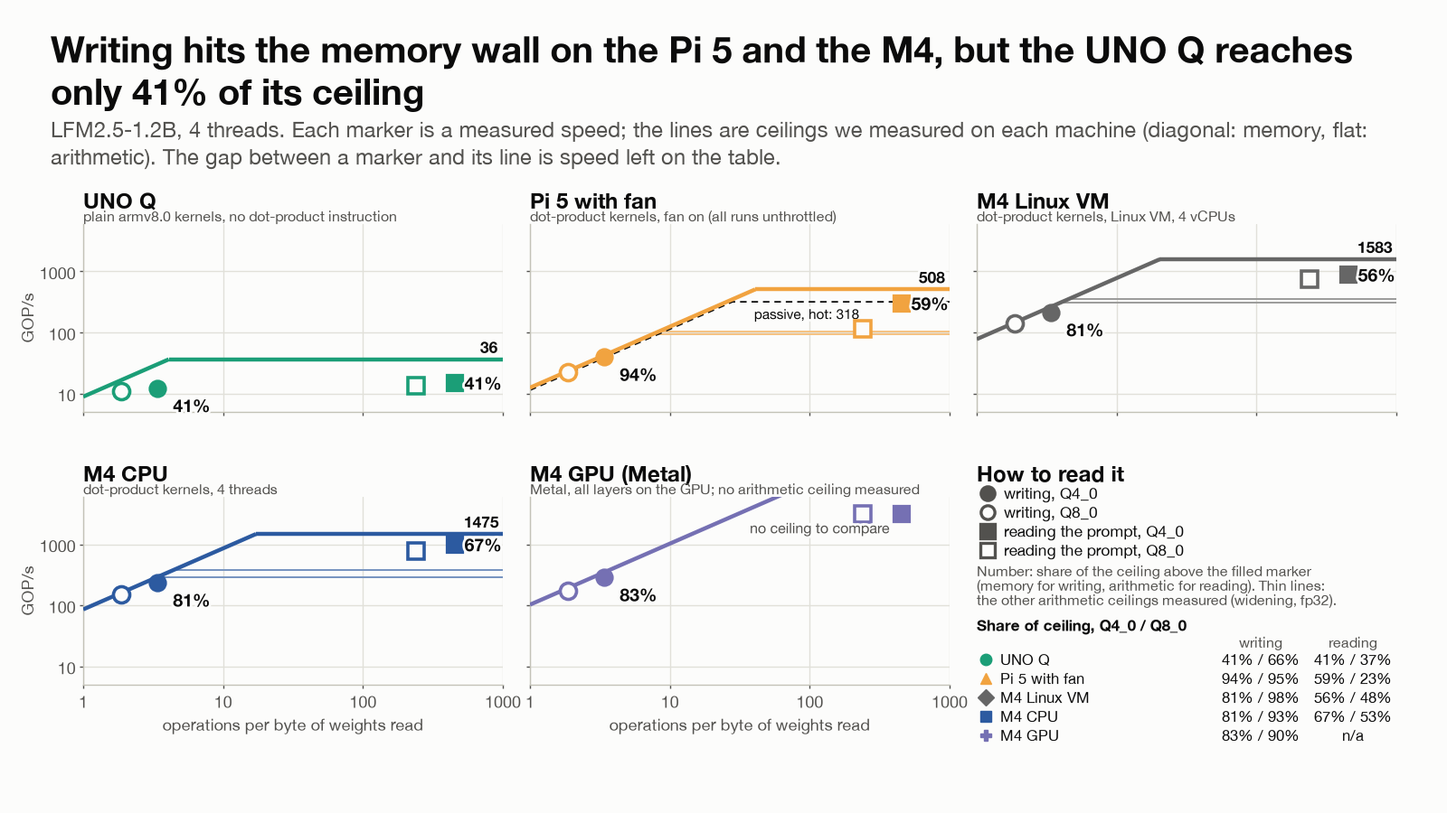
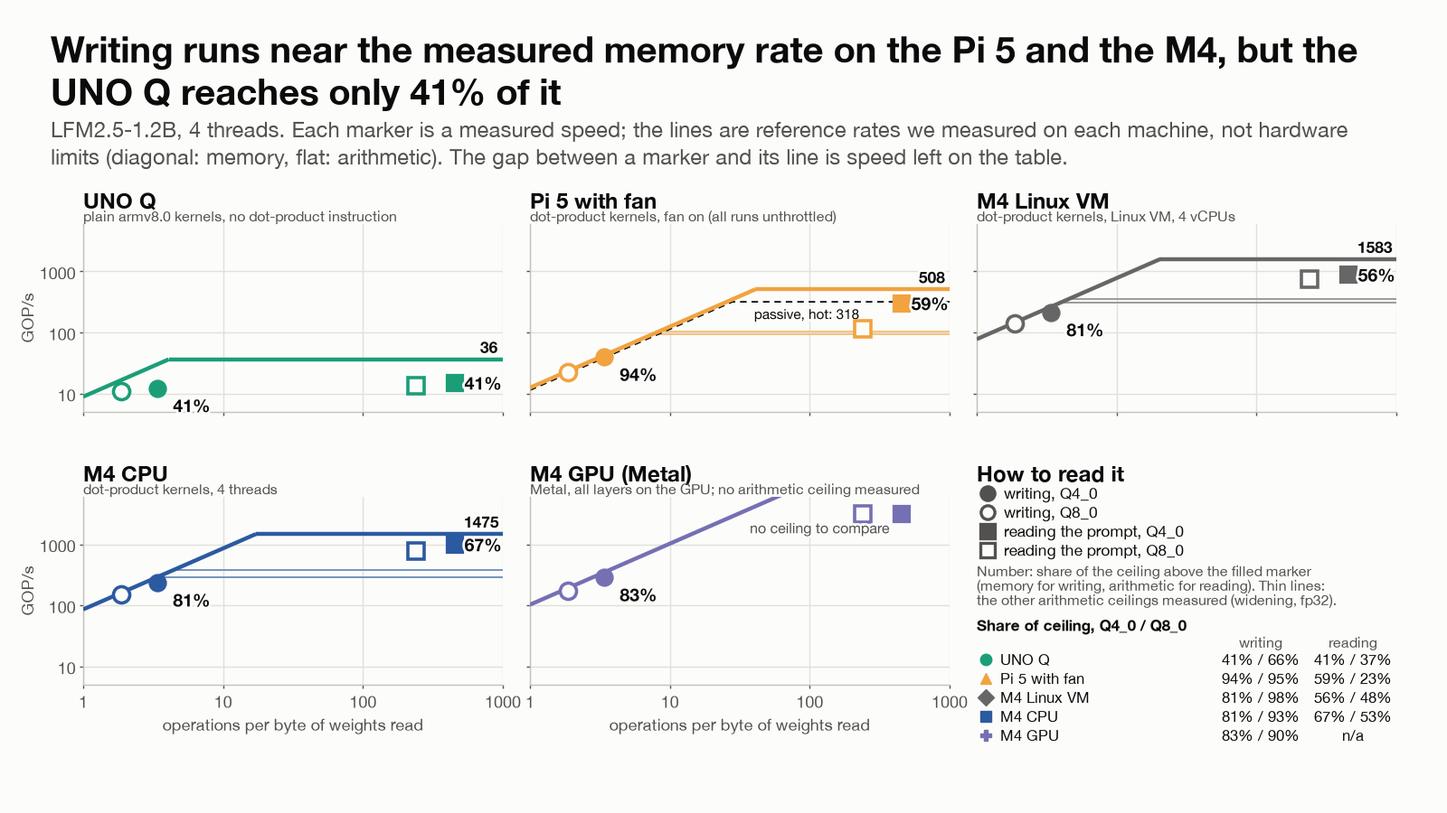
what-limits-local-ai-speed: narrower causal wording, evidence table, summary up front, replication steps
After a Codex review of the published post: the UNO Q explanation is an inference (performance counters named as the test), the
projected kernel speedup is gone, the speed rule has its formula, the Pi clock step is split into observed, supported and not
shown, quantization numbers are called fidelity not quality, the energy figure says what it includes, the audits are called AI
audits, and a dated update note says what changed. New: a three-finding summary, an evidence table, a short conclusion with next
steps, and the commands to check the 2000 MHz step on a Pi 5. Roofline figure retitled (no 'memory wall').

Changed region(s): [[0.0312, 0.0311, 0.9375, 0.1556], [0.0312, 0.1556, 0.9375, 0.2178]]

diff --git a/content/posts/what-limits-local-ai-speed/index.md b/content/posts/what-limits-local-ai-speed/index.md
@@ -6,9 +6,17 @@ tags: ["llm", "benchmarking", "raspberry-pi", "arduino", "claude-code", "hardwar
 description: "Two weeks of measurements on an Arduino UNO Q, a Raspberry Pi 5 and a Mac mini M4, with every number tied to a raw file. Memory bandwidth sets the writing speed on two of them, not the third, a faster Pi clock can write slower, and the Arduino spends about half a joule per token."
 ---
 
-I wanted to know what actually limits how fast a small language model runs, and I wanted numbers I could trust. The usual answer is two rules: memory capacity decides which model fits, and memory bandwidth decides how fast it writes. I spent two weeks testing how far that goes on the three devices I had: an Arduino UNO Q, a Raspberry Pi 5 and a Mac mini with an M4. Claude Code wrote the harness and ran most of the measurements. I'm a systems electrical engineer, not an ML person, so I wanted a method that ties every number to a raw file.
+I raised a Raspberry Pi 5's CPU clock from 1900 to 2000 MHz and its language model got 6% slower. On an Arduino UNO Q, switching from 4-bit to 8-bit weights, which nearly doubles the bytes read for every word, cost 7% of the writing speed; on the Pi it cost 44%. Both cut against the usual explanation of local AI speed, which comes down to two rules: memory capacity decides which model fits, and memory bandwidth decides how fast it writes.
 
-The short answer: the rules hold for two of the three and fail for the third, and two cheap tests tell you which case you are in. On the Pi and the M4, writing a token is limited by memory bandwidth. On the UNO Q it is limited by how fast its small cores execute the kernel's instructions, and a written token costs it about half a joule. The devices are the demonstration, not the subject.
+I spent two weeks testing how far those rules go on the three devices I had: an Arduino UNO Q, a Raspberry Pi 5 and a Mac mini with an M4, each writing one answer at a time (single-stream decoding; batching has its own section). Claude Code wrote the harness and ran most of the measurements. I'm a systems electrical engineer, not an ML person, so I wanted a method that ties every number to a raw file.
+
+What I found, in three parts:
+
+1. The bandwidth rule holds on the Pi and the M4 and fails on the UNO Q. There the evidence points to instruction overhead in its small cores' 4-bit kernel, not to memory or multipliers. That is an inference from instruction counts and scaling tests, not a look at what the cores are doing. A written token costs the UNO Q about half a joule.
+2. Operating points can behave in surprising ways. The Pi's 2000 MHz step is in its path to memory, not its cores, and a hot Pi is slow because its firmware lowers the clock; I found no direct effect of temperature at a fixed clock.
+3. Software settings can matter more than hardware. Constraining a small model's reply to a JSON schema took a smart-home test from 5 of 30 right actions to 28 of 30, and one server setting cut the wait for the first word from about 16 seconds to under 2.
+
+The devices are the demonstration, not the subject. A table near the end says how much evidence stands behind each finding.
 
 ## The method, in five habits
 
@@ -22,9 +30,9 @@ The short answer: the rules hold for two of the three and fail for the third, an
 5. Measure the roofline reference rates (read bandwidth, int8 multiply rate) on the device itself and place every
    workload against them. That turns "it is slow" into "here is what it is short of".
 
-Who did what: I defined the method and decided each step of the evaluation (what to measure next, how each run could fail, which hardware, every review). Claude Code wrote the harness, the scripts and the first drafts of the notes, and started sub-agents for some runs and for the independent audits. I cannot review its code line by line, which is why every number cites a raw file, and why the audits re-read the raw files against the register (they found no register number wrong, and their wording fixes are in). Scope: three ARM devices (four Mac configurations), the CPU path through llama.cpp release b11181 (the Apple anchor uses the build its table used) plus the M4's Metal GPU. Energy is measured on the UNO Q (at its 5 V input) and on the Pi (board rails only), not yet on the same meter; accelerators and the Pi on that meter are the next posts.
+Who did what: I defined the method and decided each step of the evaluation (what to measure next, how each run could fail, which hardware, every review). Claude Code wrote the harness, the scripts and the first drafts of the notes, and started sub-agents for some runs and for audits. I cannot review its code line by line, which is why every number cites a raw file, and why other Claude sessions re-read the raw files against the register (they found no register number wrong, and their wording fixes are in). Those are AI audits by the same kind of tool that wrote the code, not human or outside review. Scope: three ARM devices (four Mac configurations), the CPU path through llama.cpp release b11181 (the Apple anchor uses the build its table used) plus the M4's Metal GPU. Energy is measured on the UNO Q (at its 5 V input) and on the Pi (board rails only), not yet on the same meter; accelerators and the Pi on that meter are the next posts.
 
-Every number in this post has a row in that register, with its raw result file, its status and its caveats. The register and the raw result files are not published yet.
+Every number in this post has a row in that register, with its raw result file, its status and its caveats. The register and the raw result files are not published yet, so for now you cannot follow that trace yourself. That is the biggest gap in this post.
 
 ## The devices
 
@@ -47,13 +55,15 @@ Facts from the vendor pages and the machines themselves, one named source per fi
 ![A log-log chart of memory capacity against memory bandwidth for the UNO Q (4 GB, 8.9 GB/s), the Pi 5 (8 GB, 12.5 GB/s), the Mac mini M4 (16 GB, 102 GB/s) and five larger devices taken from vendor specs, with horizontal lines for the writing speed the speed rule predicts for a 7B and a 1.2B model. The Pi writes at 92% of its bandwidth and the M4 at 83%; the UNO Q reaches only 41%.](figs/landscape.png)
 
 Capacity. Resident size is about parameters times bytes per parameter (0.5625 for Q4_0, about 0.6 for Q4_K_M, about 1.06
-for Q8_0) plus the context cache and the runtime's copies. One rule of thumb says 75% of RAM is usable and the largest model, in billions of parameters, is the usable GB divided by 0.6. That is the Q4_K_M line of the arithmetic. It hides two things: small models' "Q4_0" files
+for Q8_0) plus the context cache and the runtime's copies. One rule of thumb, a heuristic and not an allocation limit, says 75% of RAM is usable and the largest model, in billions of parameters, is the usable GB divided by 0.6. That is the Q4_K_M line of the arithmetic. It hides two things: small models' "Q4_0" files
 keep the vocabulary table at 6 or 8 bits, 16 to 45% of the bytes a token reads, and repacking for dot-product
 kernels nearly doubles resident memory, 1366 MB on the Pi against 717 MB on the UNO Q for the same 4-bit 1.2B file.
 
-Speed. Tokens per second while writing is at most measured read bandwidth times an efficiency (about 0.9 at the memory
-wall) divided by bytes per token. With the throttled chip's own measured bandwidth, the rule predicted the Pi's 7B model within 5%. It fails on the UNO Q, which
-writes at 41% of its measured bandwidth and 34% of its measured multiply rate at the same time: neither memory bandwidth nor arithmetic is the limit, the kernel's instruction count is, and the rule, at the efficiency the Pi and the M4 reach, overstates its speed about 2x.
+Speed. Writing a token reads the weights that token uses once, so the rule is:
+
+> tokens per second ≈ measured read bandwidth × efficiency ÷ bytes read per token
+
+The efficiency is about 0.9 for a chip running close to its measured read rate, which I call the memory wall. The bytes are the bytes actually read per token, not the file size or the resident memory: for a mixture-of-experts model they are far fewer than the file holds. Arithmetic is a second reference rate, and a run can sit below both. With the throttled chip's own measured bandwidth, the rule predicted the Pi's 7B model within 5%. It fails on the UNO Q, which writes at 41% of its measured bandwidth and 34% of its measured multiply rate at the same time: neither is the limit, and the sections below point to the instruction overhead of its kernel. At the efficiency the Pi and the M4 reach, the rule would overstate its speed about 2x.
 
 The gray squares in the chart are bigger devices from their vendors' spec pages, not measured by us. They show that capacity and bandwidth are bought separately: some have a lot of memory and moderate bandwidth, some the reverse.
 
@@ -74,8 +84,7 @@ within 5%. Writing the prediction down is what made the miss visible.
 
 ![Five log-log roofline panels (UNO Q, Pi 5 with fan, M4 Linux VM, M4 CPU, M4 GPU) with each machine's measured memory and arithmetic ceilings and the 1.2B model's measured speeds placed on them. Writing reaches 94% of the memory ceiling on the Pi, 81 to 83% on the M4 and only 41% on the UNO Q.](figs/roofline.png)
 
-One small program, the same binary on every device, measured each one's read bandwidth and int8 multiply rate. They are reference rates, not hardware limits; a share carries about 10% uncertainty. Against them, same 1.2B
-model, 4 bits, four threads: the Pi's writing streams weights at 92% of its read rate (the chart plots the fan-cooled run, 94%) and the M4 CPU's at 81 to 86% (90 to 93% at 8 bits), the memory wall; the UNO Q reaches 41% of its read rate and 34% of its multiply rate, neither.
+One small program, the same binary on every device, measured each one's read bandwidth and int8 multiply rate. They are reference rates, not hardware limits: a streaming test is not llama.cpp's access pattern (tensor boundaries, thread synchronization), so a share carries about 10% uncertainty. Against them, same 1.2B model, 4 bits, four threads: the Pi's writing streams weights at 92% of its read rate (the chart plots the fan-cooled run, 94%) and the M4 CPU's at 81 to 86% (90 to 93% at 8 bits), close to the read rate, the memory wall; the UNO Q reaches 41% of its read rate and 34% of its multiply rate, close to neither.
 
 A GPU adds arithmetic more than bandwidth. On the M4, the Metal GPU reads a prompt at 1544 tokens per second against the CPU's 523, 3.0 times faster, but writes at 130 against 98, only 1.3 times faster (1.2 times in the first run), about the ratio of their read rates, 102 against 86 GB/s; in the first run its writing sat at 83% of its own read rate, the same wall. The UNO Q's GPU (Adreno 702, Vulkan 1.0) was 7.3 times slower than its CPU on a small vision model, and llama.cpp's Vulkan backend needs a newer Vulkan, so no language model ran on it.
 
@@ -92,10 +101,9 @@ the 4-bit file per token, so a bandwidth-bound machine must slow to about 56%: t
 
 ![Stacked bars of the instructions in one pass of the Cortex-A53's inner loop per 64 multiply-accumulates: the 4-bit loop has 54 instructions of which 16 multiply, the 8-bit loop has 48, and the microbenchmark's test kernel has 16, all multiplies. The rest unpack, rescale, load and loop.](figs/kernel_mix.png)
 
-We disassembled the exact kernel library the board runs. The 4-bit inner loop spends 54 instructions per 64
-multiply-accumulates and only 16 of them multiply; the rest load, unpack and rescale. The 8-bit loop needs 48, since
-nothing is unpacked. No runtime option changes it (all within 2%). A better kernel has at least about 2.5x of
-room.
+We disassembled the exact kernel library the board runs. The 4-bit inner loop spends 54 instructions per 64 multiply-accumulates and only 16 of them multiply; the rest load, unpack and rescale. The 8-bit loop needs 48, since nothing is unpacked. If every instruction took the same time, that predicts 30% (4-bit) and 33% (8-bit) of the multiply rate; I measured 33 to 41% and 31 to 37%. No runtime option changes it (all within 2%).
+
+That points to instruction overhead without proving it. An instruction count says how much work there is, not how long it takes: dependencies between instructions, load latency and the in-order core's issue rate could matter as much. The board exposes its Cortex-A53 performance counters, and reading them (instructions per cycle, cache misses, stalls) is the test that could contradict this; I have not done it. The memory reference rate sits well above the measured speed, so a faster kernel has headroom on paper, but how much a real kernel could realize is unmeasured.
 
 The same missing instruction decides how a prompt is read: reusing a weight across a block of tokens needs a blocked
 kernel, which on ARM needs the dot-product instruction. A 128-token prompt therefore raises the UNO Q's arithmetic
@@ -104,12 +112,7 @@ request with about 120 tokens of instructions takes 20.2 seconds on the UNO Q, 1
 
 ![Horizontal stacked bars of waiting time for a 72-token email (panel A) and a 150-token answer (panel B) on seven setups, split into the wait for the first word and the time to write the rest: the UNO Q takes 19 s and 34 s, the Pi 5 about 4.5 s and 9 s, the M4 variants 0.6 to 1.8 s and 1.3 to 3.1 s.](figs/latency.png)
 
-How much is the instruction and how much the core? We forced the Pi onto the UNO Q's kernels. At clocks matched within 4% the A76
-runs the same plain code 3.5x faster on prompts and 2.8x on writing than the A53 (core and memory system); its
-dot-product kernels then add 5.8x on prompts but only 1.1x on writing, because the plain loop already writes at 81% of
-the Pi's bandwidth. An instruction helps only where it removes the bottleneck. That number is itself a correction:
-the first split (7.0x and 1.4x) compared a hard-throttled plain-kernel run with dot-product runs that were only soft-limited; the state
-logs showed the mismatch, the claim was superseded within minutes and cool reruns gave the figures above: the method caught its own error.
+How much is the instruction and how much the core? We forced the Pi onto the UNO Q's kernels. At clocks matched within 4% the A76 runs the same plain code 3.5x faster on prompts and 2.8x on writing than the A53 (core and memory system); its dot-product kernels then add 5.8x on prompts but only 1.1x on writing, because the plain loop already writes at 81% of the Pi's bandwidth. An instruction helps only where it removes the bottleneck. (The first version of this split, 7.0x and 1.4x, compared a throttled run with unthrottled ones; the state logs showed it and cool reruns gave the figures above.)
 
 ![Two log-scale bar panels, prompt reading and writing, showing how many times faster than the UNO Q each machine is. The Pi 5 is 3.46 times (prompts) and 2.82 times (writing) faster running the UNO Q's own plain instructions, then 5.82 times and only 1.12 times faster again with the dot-product instruction. The M4 Linux VM is split the same way.](figs/isa_split.png)
 
@@ -118,27 +121,31 @@ logs showed the mismatch, the claim was superseded within minutes and cool rerun
 In a passive case the Pi 5 trips its 80 C limit within a minute of continuous writing. With the real clock recorded, the
 clock falls from 2383 to 1514 MHz (-36%) over ten minutes while writing falls from 16.6 to 13.2 tokens per second
 (-21%); speed went as the clock to the power 0.49, about half, as a memory-bound workload should. A desk fan delays
-the limit from 51 to 162 seconds and holds the loss to 6%. Measured on the throttled chip, the multiply rate fell 37% and the four-thread read rate 9%; the pinned-clock tests below show that is the clock, not the heat. The trap: the standard Linux clock reading said
+the limit from 51 to 162 seconds and holds the loss to 6%. Measured on the throttled chip, the multiply rate fell 37% and the four-thread read rate 9%; the pinned-clock tests below point to the clock, not the heat. The trap: the standard Linux clock reading said
 2.4 GHz through all of it, because it reports the clock requested, not delivered; every Pi clock column recorded before
-we noticed is marked wrong. The UNO Q never slowed through a 20-minute run at up to 74 C; its cores do too little per second to get hot.
+we noticed is marked wrong. The UNO Q never slowed through a 20-minute run at up to 74 C.
 
 ![Speed and temperature over ten minutes of continuous writing. The passive Pi 5 hits its 80 C limit at 51 seconds and loses 21% of its speed (16.6 to 13.2 tokens per second); with a desk fan it hits the limit at 162 seconds and loses 6%; the UNO Q stays flat at 5.1 tokens per second and never reaches 80 C. A small panel shows the fanned Pi cooling to 35 C.](figs/thermals.png)
 
 ![Two groups of bars for the Pi 5: dot-product arithmetic in GOP/s and read-only memory bandwidth in GB/s, measured cold, hot after the suite on the passive Pi, and with a fan after ten minutes of load. Hot, arithmetic is 37% lower (317.5 against 507.7) and bandwidth 9% lower (11.32 against 12.48); with the fan both are back within 0.2%.](figs/heat_ceilings.png)
 
-The direct test pins the clock at fixed steps from 1500 to 2400 MHz, twice in opposite orders, first in the passive case and then with a fan on the Pi. Two results. Temperature does nothing at a pinned clock: the chip at 51 to 63 C writes as fast as the same chip at 65 to 81 C, within about 1%, 0.4 to 0.5% slower if anything. A hot Pi is slow only because the firmware lowers its clock; the fan's value is the delay before it does and the higher clock it settles at afterwards. And over the 60% of extra clock between 1500 and 2400 MHz, prompt reading gained 51% (speed went as the clock to the power 0.9) while writing gained only 23%: reading is arithmetic and follows the clock, writing waits on memory.
+The direct test pins the clock at fixed steps from 1500 to 2400 MHz, twice in opposite orders, first in the passive case and then with a fan on the Pi. Two results. Within the temperatures I tested, I found no direct effect of heat at a pinned clock: the chip at 51 to 63 C writes as fast as the same chip at 65 to 81 C, within about 1%, 0.4 to 0.5% slower if anything. Each pinned step lasted under a minute, so a long soak at 80 C was not tested. So a hot Pi is slow because the firmware lowers its clock; the fan's value is the delay before it does and the higher clock it settles at afterwards. And over the 60% of extra clock between 1500 and 2400 MHz, prompt reading gained 51% (speed went as the clock to the power 0.9) while writing gained only 23%: reading is arithmetic and follows the clock, writing waits on memory.
 
 ## A faster clock that writes slower
 
 ![Left: writing speed rises from 13.4 to 15.8 tokens per second between 1500 and 1900 MHz, drops 6.4% to 14.8 at 2000 and rises to 16.6 at 2400. Right: arithmetic, L1 and L2 throughput per cycle stay at 100%; L3 speed drops to about 91% and the DRAM stream to about 83% at 2000 MHz.](figs/clock_step.png)
 
 Mapped at every 100 MHz, the writing curve is not smooth. It rises from 13.4 tokens per second at 1500 MHz to 15.8 at 1900, falls 6.4% to 14.8 at 2000, and climbs
-again to 16.6 at 2400; 2000, 2100 and 2200 MHz are all slower than 1900, in both passes. (The first, coarser sweep showed this as a dip at 2100 MHz, which we put down to chance and then to heat. The fan-cooled repeat and the finer grid showed it is a step.)
+again to 16.6 at 2400; 2000, 2100 and 2200 MHz are all slower than 1900, in both passes. The step is not noise: ten repetitions at each clock scatter by about 0.09 tokens per second, the slowest of the ten at 1900 MHz (15.7) is faster than the fastest of the ten at 2000 (14.9), and the 1.02 tokens-per-second gap is about twelve standard deviations. (The first, coarser sweep showed a dip at 2100 MHz, which we put down to chance and then to heat; the fan-cooled repeat and the finer grid showed a step.)
 
 Where is it? Not in the arithmetic: the int8 rate per MHz is the same at every clock, and the core voltage rises smoothly, 15 mV per 100 MHz, with no jump.
 A latency ladder points at the memory side. L1 and L2 behave identically at every clock, but from 2000 MHz up the shared L3 answers in 10% more CPU cycles and one thread
 streams 17% fewer bytes per cycle from DRAM, a ratio of 0.83, consistent with 5 to 6, per MHz. A read-only imitation of the model's memory pattern (four threads reading 0.69 GB in 200
-tensors with a barrier after each, no arithmetic) steps more (9.5% against the model's 6.4%) and keeps a nearly constant ratio to the real writing speed across all ten clocks (within about 2%). A prediction written down beforehand also held: the 8-bit file, which reads 1.79 times the bytes per token, steps by 7.1% at the same clock, more than the 4-bit file's 6.4%. So the cause sits in how the path to memory scales with the CPU clock at that operating point, which looks like a clock-ratio change; whether the firmware sets it, and which divider, I cannot see from Linux.
+tensors with a barrier after each, no arithmetic) steps more (9.5% against the model's 6.4%) and keeps a nearly constant ratio to the real writing speed across all ten clocks (within about 2%). A prediction written down beforehand also held: the 8-bit file, which reads 1.79 times the bytes per token, steps by 7.1% at the same clock, more than the 4-bit file's 6.4%. So the step is in the path to memory. How far that goes:
+
+- **Observed:** writing steps down 6.4% between 1900 and 2000 MHz in both passes; at that clock the shared L3's latency in CPU cycles and the DRAM stream per cycle step too, while arithmetic, L1 and L2 do not.
+- **Supported:** the step is in the memory path beyond the second-level cache, not in the cores.
+- **Not shown:** why. A clock-domain ratio, a memory-controller or interconnect operating point, or something else could do it, and I tested one board on one firmware.
 
 The practical reading: capped at 1900 MHz this Pi writes at 95 to 96% of its full-clock speed on 26% less power, and 2000 to 2200 MHz are slower than 1900 while drawing the same or more power. "More clock" is more speed only if every stage between the core and the data scales with it.
 
@@ -146,35 +153,19 @@ The practical reading: capped at 1900 MHz this Pi writes at 95 to 96% of its ful
 
 ![Three panels against bits per weight for the 1.2B model quantized from 8.5 down to 4.8 bits, plus 4-bit files made with more care (quantization-aware, or with an importance matrix). KL divergence from the full-precision file rises at every step; the share of positions with the same top word falls from 98.5% to 79.4%; perplexity stays within 0.5% of full precision until the 4-bit files, where plain Q4_K_M and Q4_0 rise 12.6% and 17.3%.](figs/quant_ladder.png)
 
-Speed is the bandwidth story again: 8-bit costs 7 to 10% on the UNO Q and 36 to 44% on the Pi and the Mac, and
-needs 1.7x the resident memory. On quality, what I could see was smaller than what is there.
-In blind votes between the 8-bit and 4-bit versions of one model I called 4 of 7 pairs equal, and our automatic
-checks scored them 13 and 12 of 24: noise. Measured as llama.cpp does (perplexity and KL divergence against the
-full-precision file over a 300,000-token text), the ladder is clear: 8-bit keeps the full-precision next word 98.5% of
-the time, Q6_K 95.2%, Q5_K_M 92.0%, a quantization-aware 4-bit file 84.9%, Q4_K_M 83.3%, plain Q4_0 79.4%. Perplexity
-stays within 0.5% of full precision down to Q5_K_M, then rises to +1.9% for the quantization-aware file and jumps to +12.6% and +17.3% for Q4_K_M and Q4_0. Plain 4-bit ranks a different word first at about one position in five of the test text: invisible in a handful of answers, but there. How the file is made matters
-as much as the bit count: the same 1B weights quantized with an importance matrix keep the next word 86.2% of the time,
-without one 81.0%. One model family each, on encyclopedia text.
+Speed is the bandwidth story again: 8-bit costs 7 to 10% on the UNO Q and 36 to 44% on the Pi and the Mac, and needs 1.7x the resident memory. Quality is harder to see, because three different things get called quality: numerical fidelity (does the smaller file agree with the full-precision one: top-word agreement, KL divergence), fit to text (perplexity) and task success (does it answer correctly). My task tests could not tell the 8-bit and 4-bit files apart: in blind votes I called 4 of 7 pairs equal, and our automatic checks scored them 13 and 12 of 24. The fidelity numbers are clear, against the full-precision file over a 300,000-token text: 8-bit keeps its top word 98.5% of the time, Q6_K 95.2%, Q5_K_M 92.0%, a quantization-aware 4-bit file 84.9%, Q4_K_M 83.3%, plain Q4_0 79.4%; perplexity stays within 0.5% of full precision down to Q5_K_M, then rises to +1.9% for the quantization-aware file and +12.6% and +17.3% for Q4_K_M and Q4_0. The full-precision file is a reference, not ground truth, and two near-tied words can flip a greedy answer without making it worse, so plain 4-bit ranking a different word first about one time in five measures how far the numbers moved, not how much worse the answers got. How the file is made matters as much as the bit count: an importance matrix lifts a 1B model's 4-bit top-word agreement from 81.0% to 86.2%. One model family, on encyclopedia text.
 
 ## Same weights, different words
 
 ![A matrix of the number of identical answers, out of 36 prompts, between each pair of the M4 GPU, M4 CPU, Pi 5 and UNO Q (18 to 23 for different chips; all four agree on 14), and a strip chart of how many characters pairs of answers share before they first differ (medians 50 to 99).](figs/chips.png)
 
-Same model file, greedy decoding, 36 prompts: any two chips write word for word the same answer on half to two thirds of
-them; on one machine the text repeats exactly, 52 of 52. What sets
-the words is the kernel path, not the chip: the Pi writes the same 28 of 28 answers as the M4's Linux VM, which runs the
-same kernel library on different silicon, and 24 to 25 of 28 as the Mac GPU and CPU, whose kernels differ. Where
-the addition order differs, texts split at a close call between two words. The verdicts do not: all three chip families
-give the same pass/fail result on at least 23 of 24 checks.
+Same model file, greedy decoding, 36 prompts: any two chips write word for word the same answer on half to two thirds of them; on one machine the text repeats exactly, 52 of 52. In these tests the kernel path explains the differences better than the chip does: the Pi writes the same 28 of 28 answers as the M4's Linux VM, which runs the same kernel library on different silicon, and 24 to 25 of 28 as the Mac GPU and CPU, whose kernels differ. That does not show hardware never matters (one model, a small prompt set). Where the addition order differs, the texts probably split at a close call between two words; I have not measured that. The verdicts do not split: all three chip families give the same pass/fail result on at least 23 of 24 checks.
 
 ## Batching: predict, then measure
 
 ![Three panels of aggregate writing speed against the number of sequences decoded together. On the Pi 5, cool and hot, the measured speed (41 tokens per second at 8 sequences, 2.6 to 3.1 times one sequence) sits far under the textbook prediction (125 cool) and the kernel-aware prediction (90 cool), with a sawtooth at 5 to 7 sequences; the UNO Q gains only 1.09 times at 4.](figs/batching.png)
 
-Decoding several conversations at once lets a memory-bound chip read each weight once for all of them: a naive roofline promises up to 8x at 8 streams. Reading llama.cpp's repacked kernel before the run said otherwise: it handles streams in blocks
-of 4 and sends leftovers through single-row passes, so the gain should be a sawtooth. The Pi measured 15.8, 18.3, 38.8
-and 41.3 tokens per second in aggregate for 1, 2, 4 and 8 streams (2.6x at 8), and 5 to 7 streams were slower than 4. Every one of these runs was on the passive Pi and reached its 80 C limit, so all are flagged; the hot runs at 1500 MHz show the same shape (13.2, 15.6, 37.3 and 41.5). The sawtooth was on record before the data existed. The UNO Q, with no idle arithmetic to share, gains 1.09x at 4
-streams.
+Decoding several conversations at once lets a memory-bound chip read each weight once for all of them: a naive roofline promises up to 8x at 8 streams. Reading llama.cpp's repacked kernel before the run said otherwise: it handles streams in blocks of 4 and sends leftovers through single-row passes, so the gain should be a sawtooth. The Pi measured 15.8, 18.3, 38.8 and 41.3 tokens per second in aggregate for 1, 2, 4 and 8 streams (2.6x at 8), and 5 to 7 streams were slower than 4. Every run was on the passive Pi and reached its 80 C limit, so all are flagged: read them as the shape of the curve, not as steady-state speeds. The hot runs at 1500 MHz show the same shape. The UNO Q, with no idle arithmetic to share, gains 1.09x at 4 streams.
 
 ## The biggest models that fit
 
@@ -214,28 +205,60 @@ tokens (-ub 8) moves a checkpoint early enough: 109 of 121 tokens reused, the fi
 
 ![Left: board power over time at the UNO Q's 5 V input. Writing a 1,500-token answer holds about 2.3 W for 347 seconds (2.35 W in the first minute, 2.19 W in the last) and reading a prompt about 1.8 W for 287 seconds, against 0.455 W idle. Right: three bars of energy per token, each split into the board's idle draw and the extra draw for the work: reading a prompt 0.25 joules (3.9 tokens per joule), writing 128-token answers 0.47 (2.1) and writing 1,500-token answers 0.53 (1.9).](figs/uno_energy.png)
 
-The UNO Q has no power sensor, so I measured it from outside. I put an inline USB-C meter between the Mac's port and the board. The Mac cannot see the meter as a device, so I chose to read its display with a desk webcam, twice a second, and had Claude Code write the reader. A reading counts only if the meter's watts equal its volts times its amps within 3%, and a run's energy is the area under the power trace. I had the board's LED animation killed (Claude Code flashed an empty sketch to its microcontroller) because it would add to the number. The first run started with Wi-Fi and Bluetooth on; I asked why not switch them off for every run, so we stopped it, kept its files marked as aborted, and started over with them off. Wi-Fi and Bluetooth cost 0.047 W at idle, 9% of it; idle with them off is 0.455 W.
+The UNO Q has no power sensor, so I measured it from outside: an inline USB-C meter between the Mac's port and the board, its display read by a desk webcam twice a second (my choice; Claude Code wrote the reader). A reading counts only if the meter's watts equal its volts times its amps within 3%, and a run's energy is the area under the power trace. That shows the display is read consistently, not that the meter is accurate: all three numbers come from the same circuit. I had the LED animation killed (Claude Code flashed an empty sketch to the microcontroller). The first run started with Wi-Fi and Bluetooth on; I asked why not switch them off for every run, so we stopped it, kept its files marked as aborted, and restarted with them off. They cost 0.047 W at idle, 9% of it; idle with them off is 0.455 W.
 
-Writing a 1,500-token reply, the board draws 2.28 W at 4.33 tokens per second, so each token costs 0.53 J, or 1.9 tokens per joule; three runs agree within 0.7%. At the 128-token length the usual benchmark uses, it draws 2.43 W at 5.13 tokens per second: 0.47 J, 2.1 tokens per joule. Reading a prompt draws less, 1.82 W, but runs faster, 7.18 tokens per second, so a prompt token costs 0.25 J, 0.48 times a written one. Power also falls along a long answer, by 7 to 9% between the first minute and the last (2.35 W to 2.19 W in the first run), as the speed falls with the growing context.
+Writing a 1,500-token reply, the board draws 2.28 W at 4.33 tokens per second: 0.53 J per token of board-input energy, idle draw included (1.9 tokens per joule), or 0.42 J above idle (2.4 tokens per joule). The first answers "what does this device spend to write a token", the second "what does inference add to a device that is already on"; three runs agree within 0.7%. At the 128-token length the usual benchmark uses, it draws 2.43 W at 5.13 tokens per second: 0.47 J per token. Reading a prompt draws less, 1.82 W, but runs faster, 7.18 tokens per second, so a prompt token costs 0.25 J, 0.48 times a written one. Power falls 7 to 9% along a long answer (2.35 W to 2.19 W in the first run) as the speed falls with the growing context.
 
-This board is slow rather than frugal: it adds about 1.8 to 2.0 W on top of idle to write 4 to 5 tokens per second. That fits the earlier finding that its limit is the instructions its small cores execute, not memory. A better kernel has at least about 2.5 times of speed room; if it ran at about the same power, a joule would go that much further. That is a projection, not a measurement.
+This board is slow rather than frugal: it adds about 1.8 to 2.0 W on top of idle to write 4 to 5 tokens per second. Because the cause of the slowness is still an inference, I make no projection of what a faster kernel would cost in joules.
 
-I wrote the prediction first, and it missed: 1.3 to 1.8 W and 2.9 to 4.0 tokens per joule while writing, against 2.28 W and 1.90 measured. The article that gave the one published UNO Q speed I matched above also says about 1.4 W under load, for a different model, and I could not find how it measured; I did not reproduce that figure. And a caution about my own number: I have not checked the meter against a reference instrument. All I checked is that its readings agree with each other, watts against volts times amps, and my summed energy against the meter's own charge counter, within 0.8 to 2.3%.
+I wrote the prediction first, and it missed: 1.3 to 1.8 W and 2.9 to 4.0 tokens per joule while writing, against 2.28 W and 1.90 measured. The article that gave the one published UNO Q speed I matched above also says about 1.4 W under load, for a different model, and I could not find how it measured; I did not reproduce that. And I have not checked the meter against a reference instrument: its readings agree with each other, and my summed energy agrees with its own charge counter within 0.8 to 2.3%, but that would not catch a meter that is wrong in the same way everywhere.
 
 On the Pi's board rails a 1.2B model gives about 2.5 tokens per joule over a whole run, about 2.7 to 3.0 counting only the generation windows. The cheap lever is the clock: pinned at 1900 MHz the rails averaged 4.6 W against 6.2 W at 2400 for 4% less writing speed, which is 3.45 against 2.66 tokens per joule (whole-run power), the best of the six clocks tried. The Pi's figures are its board rails only, with no power supply or USB, and the UNO Q's are the whole board at its 5 V input, so the two cannot be compared yet. The Pi needs the same meter first.
 
+## How solid each finding is
+
+Three labels. Repeated: the same measurement agreed across two or more runs under the same conditions. Replicated: the result appeared again with a changed workload or method. Exploratory: one run, or too few to give a spread.
+
+| Finding | What backs it | Evidence |
+|---|---|---|
+| The Pi's writing speed steps down 6.4% from 1900 to 2000 MHz | Ten repetitions per clock in two passes; the 8-bit file steps 7.1%; a memory-only imitation steps | Repeated, replicated; one board |
+| The UNO Q is not limited by bandwidth or multipliers | 41% of the read rate, 34% of the multiply rate; the 8-bit file keeps 93%; threads scale 3.7 to 3.8x | Replicated by three tests, one run each |
+| Instruction overhead is why | Instruction counts; the Pi forced onto the same kernels; no counters | Exploratory |
+| The Pi and the M4 are limited by bandwidth | 81 to 94% of the read rate; the 8-bit file slows about as the bytes predict; threads flatten; the mixture-of-experts model follows bytes | Replicated, several runs |
+| No direct temperature effect at a pinned clock | Two passes, two coolings, 51 to 81 C, within about 1% | Repeated |
+| Throttling with and without a fan | One run per configuration | Exploratory |
+| UNO Q energy per token | Three 1,500-token runs within 0.7%; one 128-token run; one meter, unchecked | Repeated at 1,500 tokens, otherwise exploratory |
+| The quantization ladder, same answers across chips, the smart-home fixes | One model family or one greedy sample per prompt; 20 commands | Exploratory |
+
 ## Limitations
 
-One board of each kind, one run per thermal configuration, no temperature log during the hot ceiling measurement. The M4 numbers are good to about 5 to 10% run to run: a rerun at 8 to 9% background instead of 18 to 20% moved prompt reading by up to 10% and Metal writing by 6.5%, four repeats scattered 11% on prompt reading, and the Mac never reached a strictly quiet state; the M4 VM rows moved more, 7 to 33%. The Pi's clock step is one chip on one firmware, and its mechanism is inferred from latency and bandwidth, not observed. The UNO Q's energy comes from one meter read by webcam and not checked against a reference instrument, and its idle reading drifted from 0.471 to 0.450 W across the session for a reason I did not find; the Pi's energy is a different measuring point. The ceilings are reference rates, not
-hardware limits. The A53 explanation is inferred from instruction counts, not performance counters. Quantization: one
-model each, one text. Human quality: one rater, 24 votes. Apart from the M4's Metal GPU, no GPU or NPU has run a language model here. Not covered: image, video and speech generation, phones, a voice-assistant pipeline, and sending requests from a small board to a bigger machine; small vision and speech models did run on the boards earlier in the project, but they are not part of this post. The register, the raw files and the harness are not published yet.
+One board of each kind. The M4 numbers are good to about 5 to 10% run to run: a rerun at 8 to 9% background instead of 18 to 20% moved prompt reading by up to 10% and Metal writing by 6.5%, four repeats scattered 11% on prompt reading, and the Mac never reached a strictly quiet state; the M4 VM rows moved more, 7 to 33%. There was no temperature log during the hot ceiling measurement. The Pi's clock step is one chip on one firmware, and its mechanism is inferred from latency and bandwidth, not observed. The UNO Q's energy comes from one meter read by webcam and not checked against a reference instrument, and its idle reading drifted from 0.471 to 0.450 W across the session for a reason I did not find; the Pi's energy is a different measuring point. The ceilings are reference rates, not hardware limits. The A53 explanation is inferred from instruction counts, not performance counters. Quantization: one model each, one text. Human quality: one rater, 24 votes. Apart from the M4's Metal GPU, no GPU or NPU has run a language model here. Not covered: image, video and speech generation, phones, a voice-assistant pipeline, and sending requests from a small board to a bigger machine; small vision and speech models did run on the boards earlier in the project, but they are not part of this post. The register, the raw files and the harness are not published yet.
+
+## What I take from this, and what is next
+
+1. Find the limiting resource before you buy for it: the Pi and the M4 write about as fast as their memory reads, and the UNO Q does not.
+2. Log the clock the chip really delivers: more clock is more speed only if everything between the core and the data scales with it.
+3. Try the runtime settings before the hardware: on one chip, a constrained reply took a smart-home test from 5 of 30 right actions to 28, and a cached prompt cut the first word from 16 seconds to under 2.
+
+Next, in the order I would do them: read the UNO Q's performance counters; put the Pi on the same power meter and check the meter against a reference; repeat the Pi's clock sweep on a second Pi 5 or another firmware; try an accelerator, the M4's Neural Engine first.
 
 ## Doing this on your own device
 
 Adding a device to my harness is meant to be a profile, not a port: a transport profile plus a spec file with a named source for each field. One script installs the same llama.cpp release and Python environment, one pushes the same model files, and one suite script runs the same sequence everywhere, reference rates and kernel check included. A cost script turns bytes and operations per token plus the reference rates into the prediction you write down first; a verify script recomputes every registered number afterwards. What is device-specific today: real clock and throttle flags are read only on a Raspberry Pi; power is read from the Pi's power chip and, on the UNO Q, from an external meter read by webcam; macOS gives no clock or temperature without sudo; the roofline program is ARM NEON only; and no GPU or NPU engine is wired in beyond one Vulkan vision test.
 
+If you have a Pi 5, you can check the 2000 MHz step yourself. Start cool (below about 45 C) and, for each of 1900000 and 2000000 kHz, run:
+
+```
+echo 1900000 | sudo tee /sys/devices/system/cpu/cpufreq/policy0/scaling_max_freq
+llama-bench -m LFM2.5-1.2B-Instruct-Q4_0.gguf -p 0 -n 128 -t 4 -r 5
+```
+
+While it runs, `vcgencmd measure_clock arm` in a second terminal should read the capped clock; if it reads lower, the Pi is throttling and the run does not count. Restore the cap afterwards (2400000). The model is `LiquidAI/LFM2.5-1.2B-Instruct-GGUF` and I used llama.cpp release b11181. I would like to hear whether your board steps too, and on which firmware (`vcgencmd version`).
+
 If you measure your own board, the first thing to publish is not the tokens per second. It is the anchor you reproduced, the state log of the run, and the prediction you wrote down before it.
+
+*Update, 2026-10-09: a review of the published post by Codex, another AI tool, found wording that claimed more than the measurements show. I made the UNO Q explanation an inference with the missing test named, dropped the projected kernel speedup, narrowed the clock-step, quantization, kernel-path and heat claims, labelled what the energy figure includes, and added the summary, the speed formula, the evidence table and the Pi steps above.*
 
 ---
 
-*[How this was built](/how-i-work/): Claude Code wrote the harness, the analysis scripts, the figures, the program that reads the power meter's display and the first drafts of this post, and started sub-agents for some runs and for the independent audits of the numbers. I defined the method (anchor to a published number first, log the device's state on every run, write the prediction before the run, tie every number to a raw file) and decided how to proceed at each step of the evaluation: what to measure next, what would count as a failure, which result to distrust and rerun, and to read the power meter with a webcam and switch the radios off for every run. I also set up the boards and their cooling, the meter and the camera, cast the blind votes, and reviewed every draft. Tested on the real hardware: every measurement above, on one UNO Q, one Pi 5 and one Mac mini M4 (the email times in the latency chart are computed from those speeds), and the UNO Q's power with one USB meter that a webcam read. Not tested: a second board of each kind, that meter against a reference instrument, the Pi on the same meter, and what inside the Pi's firmware changes at 2000 MHz.*
+*[How this was built](/how-i-work/): Claude Code wrote the harness, the analysis scripts, the figures, the program that reads the power meter's display and the first drafts of this post, and started sub-agents for some runs and for audits of the numbers by separate AI reviewers. I defined the method (anchor to a published number first, log the device's state on every run, write the prediction before the run, tie every number to a raw file) and decided how to proceed at each step of the evaluation: what to measure next, what would count as a failure, which result to distrust and rerun, and to read the power meter with a webcam and switch the radios off for every run. I also set up the boards and their cooling, the meter and the camera, cast the blind votes, and reviewed every draft. Tested on the real hardware: every measurement above, on one UNO Q, one Pi 5 and one Mac mini M4 (the email times in the latency chart are computed from those speeds), and the UNO Q's power with one USB meter that a webcam read. Not tested: a second board of each kind, that meter against a reference instrument, the Pi on the same meter, and what inside the Pi's firmware changes at 2000 MHz.*
